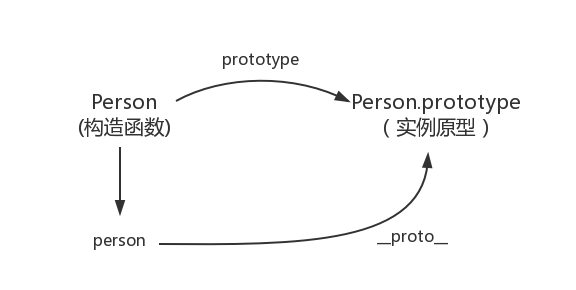
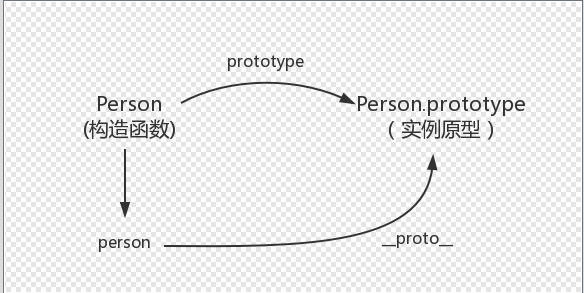
js

diff --git a/articles/JavaScript相关/JavaScript深入系列.md b/articles/JavaScript相关/JavaScript深入系列.md
@@ -3,6 +3,8 @@
 * 每一个JavaScript对象(null除外)在创建的时候就会与之关联另一个对象,这个对象就是我们所说的原型,每个对象都会从原型'继承'属性。
 * 每一个JavaScript对象(除了null)都具有一个属性,叫__proto__,这个属性会指向该对象的原型。
 * 构造函数的prototype原型属性(指针),指向原型对象,原型对象的 constructor指向构造函数,  构造函数的实例的[[Prototype]] __proto__指向构造函数的原型
+
+![](https://raw.githubusercontent.com/1391020381/Web-Foundation/master/img/prototype2.png)
 * Object.defineProperty(person,'name',{writable:false,value:'justdoit'})
 * 一旦把属性定义为不可配置的,就不能再把它变回可配置了。可以多次调用Object.defineProperty方法修改同一个属性,但在把configurable特性设置为false之后就会有限制了。
 ```

diff --git a/articles/nuxt.md b/articles/nuxt.md
@@ -1,6 +1,6 @@
 # nuxt官网examples
  1. async-component-injection
-     ![](https://github.com/1391020381/Web-Foundation/blob/master/img/nuxt-async-component-injection.png)
+     ![](https://raw.githubusercontent.com/1391020381/Web-Foundation/master/img/nuxt-async-component-injection.png)
  2. async-data
  3. auth-routes
  4. cached-components 
